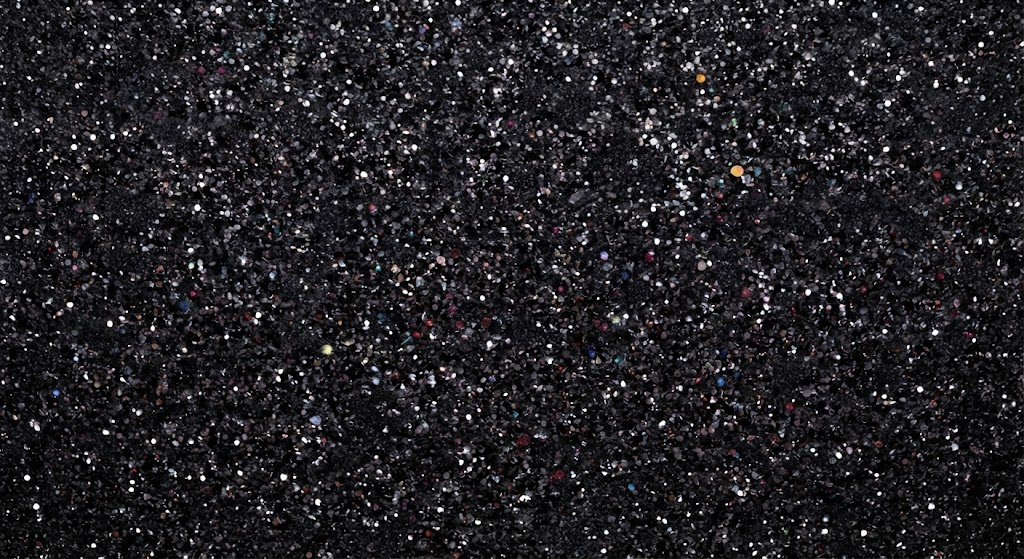
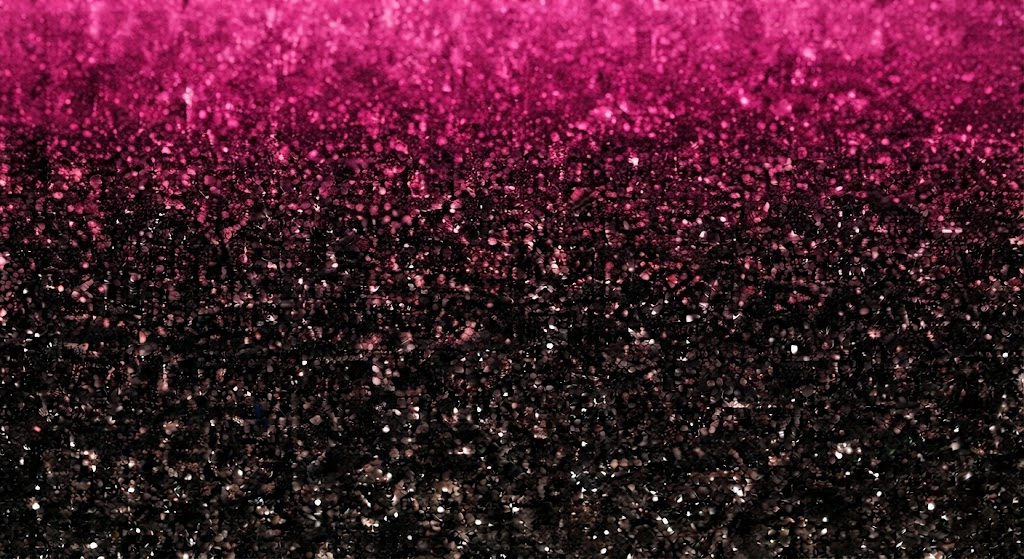
ウィジェットを最後面に配置

diff --git a/widget.css b/widget.css
@@ -8,13 +8,13 @@ body {
     font-family: 'Mochiy Pop One', sans-serif;
     background: transparent;
     overflow: hidden;
-    width: 300px;
-    height: 300px;
+    width: 250px;
+    height: 250px;
 }
 
 #widget {
-    width: 100%;
-    height: 100%;
+    width: 250px;
+    height: 250px;
     padding: 15px;
     background-image: url('img/Widget background.jpg');
     background-size: cover;
@@ -23,33 +23,27 @@ body {
 
     border-radius: 15px;
     box-shadow: 0 4px 15px rgba(0,0,0,0.15);
+
+    overflow: hidden;
 }
 
 #widget-todo-list {
-    list-style: none;
-
-    /* タスク部分のみスクロール可 */
+    width: 100%;
     max-height: 195px;
+
+    list-style: none;
     overflow-y: auto;
-}
-
-#widget-todo-list::-webkit-scrollbar {
-    width: 6px;
-}
-
-#widget-todo-list::-webkit-scrollbar-thump {
-    background: #cbd5e1;
-    border-radius: 3px;
-}
-
-#widget-todo-list::-webkit-scrollbar-track {
-    background: transparent;
+    overflow-x: hidden;
 }
 
 #widget-todo-list li {
     display: flex;
     align-items: center;
-    gap: 10px;
+
+    width: 100%;
+    min-width: 0;
+
+    gap: 8px;
 
     padding: 10px 6px;
     margin-bottom: 6px;
@@ -60,7 +54,6 @@ body {
     font-size: 13px;
     color: #1e293b;
 
-    cursor: pointer;
 }
 
 #widget-todo-list li:hover {
@@ -70,14 +63,26 @@ body {
 #widget-todo-list input[type="checkbox"] {
     width: 17px;
     height: 17px;
-    flex-shrink: 0;
+    flex: 0 0 17px;
     cursor: pointer;
 }
 
 .widget-task-text {
+    flex: 1;
+    min-width: 0;
+
     overflow: hidden;
     text-overflow: ellipsis;
     white-space: nowrap;
+}
+
+#widget-todo-list::-webkit-scrollbar {
+    width: 0;
+    height: 0;
+}
+
+#widget-todo-list li:hover {
+    background: #f1f3f5;
 }
 
 #drag-bar {

diff --git a/main.js b/main.js
@@ -39,7 +39,7 @@ function createWidgetWindow() {
         resizable: false,
 
         frame: false,
-        alwaysOnTop: true,
+        alwaysOnTop: false,
         skipTaskbar: true,
         transparent: true,
 
@@ -47,6 +47,8 @@ function createWidgetWindow() {
             preload: path.join(__dirname, 'preload.js')
         }
     });
+
+    widgetWindow.setAlwaysOnTop(false);
 
     // 保存されている位置を取得
     const savePosition = getWidgetPosition();
